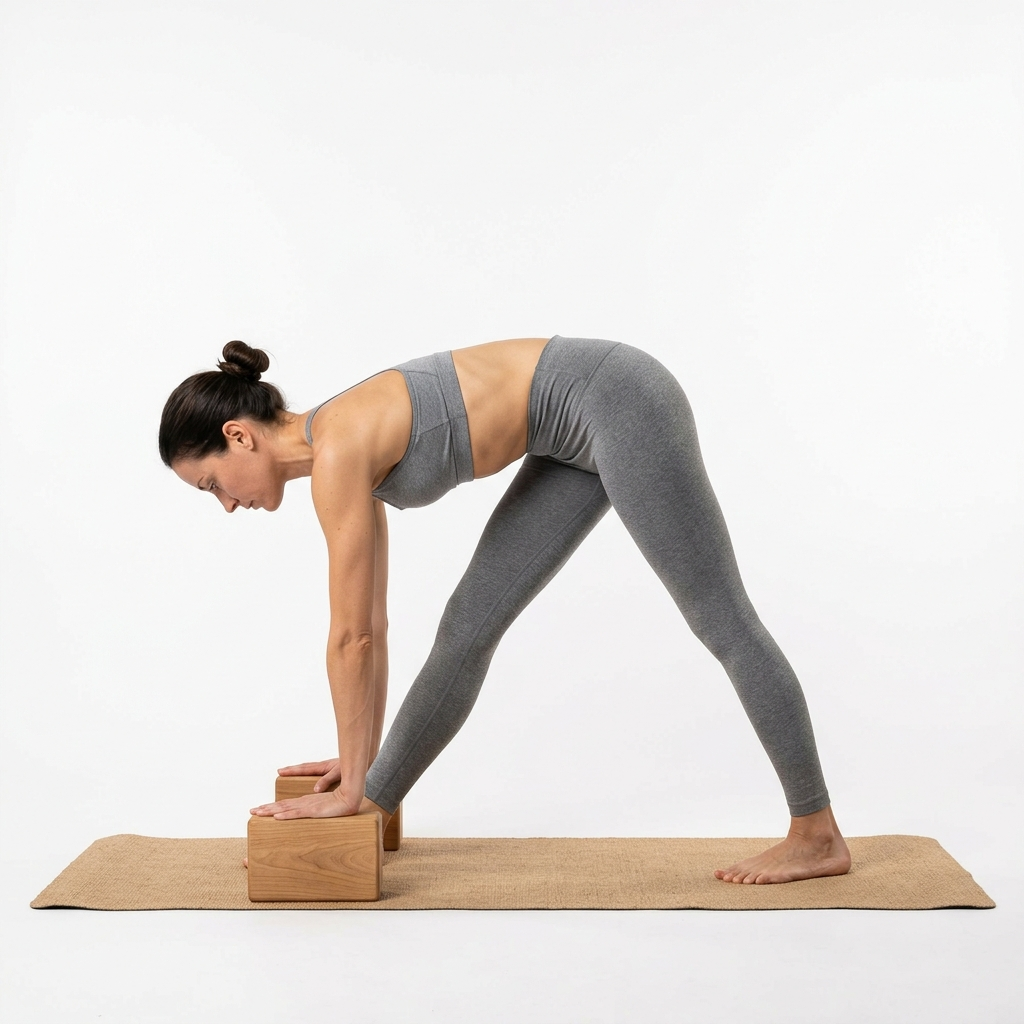
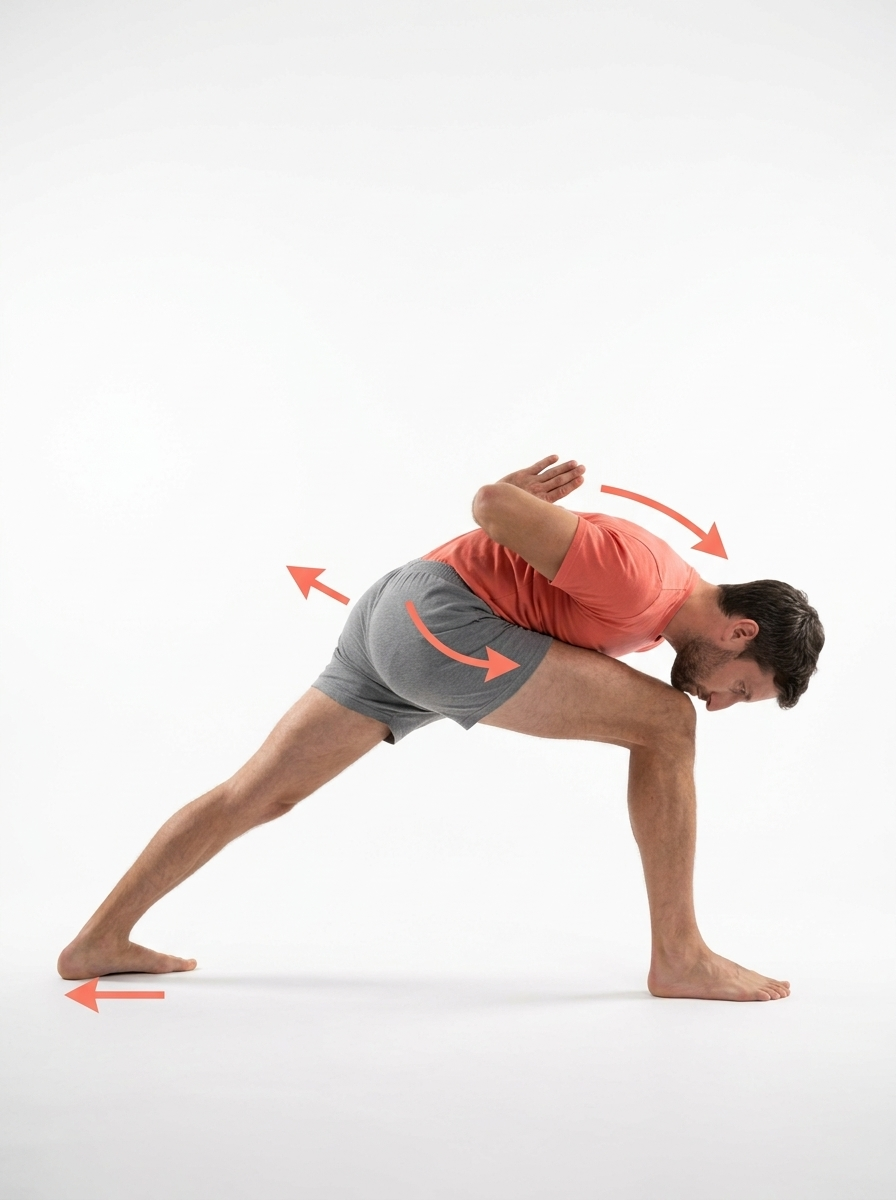
feat: add 5 new studio pose photos with directional action arrows and expand gallery

Changed region(s): [[0.0312, 0.3125, 0.9688, 0.9062], [0.0, 0.9375, 0.1562, 1.0]]

diff --git a/src/utils/poseGallery.js b/src/utils/poseGallery.js
@@ -133,6 +133,86 @@ export const KNOWN_POSE_VARIATIONS = {
       description: 'תרגול משקם ונתמך עם בולסטר מתחת לחזה והרפיית המצח',
       src: '/images/poses/paschimottanasana-props.png'
     }
+  ],
+  'utthita-parsvakonasana': [
+    {
+      id: 'studio',
+      title: 'סטודיו + חיצי פעולה',
+      badge: '🎯 סטודיו ואנטומיה',
+      description: 'הדגמת סטודיו עם 90 מעלות בברך קדמית, תמיכת בלוק וקו אלכסוני מלא מהעקב ליד',
+      src: '/images/poses/utthita-parsvakonasana.jpg'
+    },
+    {
+      id: 'alt',
+      title: 'הדגמת מתרגלת נוספת',
+      badge: '🧘 הדגמה נוספת',
+      description: 'תצלום מתרגלת להדגמת פתיחת בית החזה והארכת הצלע העליונה',
+      src: '/images/poses/utthita-parsvakonasana.png'
+    }
+  ],
+  'utkatasana': [
+    {
+      id: 'studio',
+      title: 'סטודיו + חיצי פעולה',
+      badge: '🎯 סטודיו ואנטומיה',
+      description: 'הדגמת סטודיו של תנוחת הכיסא עם ירידת אגן, עקבים מושרשים וזרועות מתוחות מעלה',
+      src: '/images/poses/utkatasana.jpg'
+    },
+    {
+      id: 'alt',
+      title: 'הדגמת מתרגל/ת נוסף/ת',
+      badge: '🧘 הדגמה נוספת',
+      description: 'תצלום נוסף המדגים את זווית השוקיים ומנח הזרועות לצד האוזניים',
+      src: '/images/poses/utkatasana.png'
+    }
+  ],
+  'uttanasana': [
+    {
+      id: 'studio',
+      title: 'סטודיו + חיצי פעולה',
+      badge: '🎯 סטודיו ואנטומיה',
+      description: 'כפיפה עזה לפנים עם כפות ידיים שטוחות ברצפה, רגליים צמודות וחיצי הארכת עמוד שדרה',
+      src: '/images/poses/uttanasana.jpg'
+    },
+    {
+      id: 'alt',
+      title: 'הדגמת מתרגל/ת נוסף/ת',
+      badge: '🧘 הדגמה נוספת',
+      description: 'מבט צדדי נוסף על תנוחת אוטאנאסאנה וגמישות שרירי הירך האחורית (Hamstrings)',
+      src: '/images/poses/uttanasana.png'
+    }
+  ],
+  'ardha-chandrasana': [
+    {
+      id: 'studio',
+      title: 'סטודיו + חיצי פעולה',
+      badge: '🎯 סטודיו ואנטומיה',
+      description: 'הדגמת סטודיו של חצי ירח עם בלוק עץ, רגל מונפת מקבילה לרצפה וחיצי פתיחת אגן',
+      src: '/images/poses/ardha-chandrasana.jpg'
+    },
+    {
+      id: 'alt',
+      title: 'הדגמת מתרגל/ת נוסף/ת',
+      badge: '🧘 הדגמה נוספת',
+      description: 'הדגמה נוספת להשוואת שיווי משקל ופריסת בית החזה במרחב',
+      src: '/images/poses/ardha-chandrasana.png'
+    }
+  ],
+  'parsvottanasana': [
+    {
+      id: 'studio',
+      title: 'סטודיו + חיצי פעולה',
+      badge: '🎯 סטודיו ואנטומיה',
+      description: 'הדגמת סטודיו עם כפות ידיים בתפילה מאחורי הגב (פסצ׳ימה נמסקר) וחיצי ריבוע אגן',
+      src: '/images/poses/parsvottanasana.jpg'
+    },
+    {
+      id: 'alt',
+      title: 'הדגמת מתרגל/ת נוסף/ת',
+      badge: '🧘 הדגמה נוספת',
+      description: 'תצלום נוסף המדגים את מתיחת הצד והתארכות הגו מעל הרגל הקדמית',
+      src: '/images/poses/parsvottanasana.png'
+    }
   ]
 };
 
